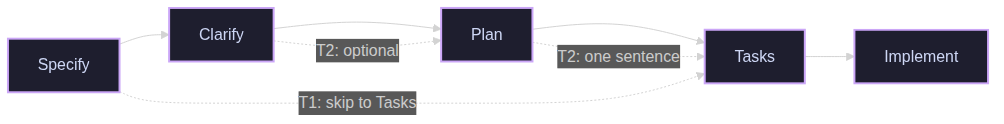
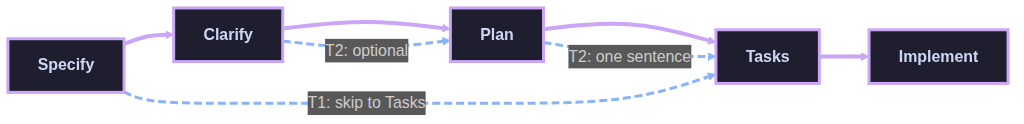
feat(minspec): 0.1.11 — README badges, thicker mermaid, fix ADR title bar flicker
Listing polish + one minor UX fix:

- README badges restructured: Tests/Coverage/AI-not-required/Internet-
  not-required stay at the top (high-signal). License, VS Code version,
  TypeScript version, and CI status move to the marketplace sidebar
  badges array. Same info, less visual noise above the fold.
- Badge renamed "Offline Core" → "Internet: not required" (plain English).
- First "specification-driven development" mention in README now links
  to spec-kit on GitHub (the upstream SDD methodology/format MinSpec
  stays compatible with).
- Phase Lifecycle PNG regenerated: 4px solid purple connectors for the
  full path, 3px dashed blue for the T1/T2 skip arrows, bold phase
  labels. Source .mmd updated alongside.
- Fix: "MinSpec: Decisions" explorer section no longer stretches its
  title to "MinSpec: Create Architecture D…" on hover. Added
  shortTitle "New ADR" + $(add) icon to minspec.createAdr so VS Code
  renders it as an icon-only action button in the view/title bar.

diff --git a/packages/minspec/CHANGELOG.md b/packages/minspec/CHANGELOG.md
@@ -5,6 +5,19 @@ All notable changes to the MinSpec extension will be documented in this file.
 The format is based on [Keep a Changelog](https://keepachangelog.com/en/1.1.0/),
 and this project adheres to [Semantic Versioning](https://semver.org/spec/v2.0.0.html).
 
+## [0.1.11] - 2026-05-28
+
+### Changed
+
+- **README badges restructured.** Tests, Coverage, "No AI Required", and "Internet not required" remain at the top (high-signal). License, VS Code version, TypeScript version, and CI status moved to the marketplace sidebar (`package.json` `badges` array) — same info, less visual noise above the fold.
+- Renamed badge "Offline Core" → "Internet: not required" for plain-English clarity.
+- First mention of "specification-driven development" in the README now links to [Spec Kit](https://github.com/spec-kit/spec-kit) — the upstream SDD methodology / file format MinSpec stays compatible with.
+- Phase Lifecycle diagram regenerated with thicker connectors (4px solid for the T3/T4 path, 3px dashed for T1/T2 skip arrows) and bold phase labels for readability at marketplace render scale.
+
+### Fixed
+
+- **"MinSpec: Decisions" section title flicker:** Hovering the explorer pane no longer expands the title bar to "MinSpec: Create Architecture D…". The `minspec.createAdr` command now declares `shortTitle: "New ADR"` plus a `$(add)` icon, so VS Code renders it as an icon-only action button instead of stretching the full title.
+
 ## [0.1.10] - 2026-05-28
 
 ### Changed

diff --git a/packages/minspec/README.md b/packages/minspec/README.md
@@ -2,18 +2,14 @@
 
 > Just enough spec. Never too much.
 
-[![CI](https://github.com/harvest316/minspec/actions/workflows/ci.yml/badge.svg)](https://github.com/harvest316/minspec/actions/workflows/ci.yml)
 [![Tests](https://img.shields.io/endpoint?url=https://raw.githubusercontent.com/harvest316/minspec/badges/tests.json)](https://github.com/harvest316/minspec/actions/workflows/ci.yml)
 [![Coverage](https://img.shields.io/endpoint?url=https://raw.githubusercontent.com/harvest316/minspec/badges/coverage.json)](https://github.com/harvest316/minspec/actions/workflows/ci.yml)
-[![License: MIT](https://img.shields.io/badge/License-MIT-yellow.svg)](https://opensource.org/licenses/MIT)
-[![VS Code](https://img.shields.io/badge/VS%20Code-1.90+-blue.svg)](https://code.visualstudio.com/)
-[![TypeScript](https://img.shields.io/badge/TypeScript-5.0+-3178C6.svg)](https://www.typescriptlang.org/)
 [![No AI Required](https://img.shields.io/badge/AI-not%20required-lightgrey.svg)](https://github.com/harvest316/minspec)
-[![Offline Core](https://img.shields.io/badge/core-offline%20by%20default-lightgrey.svg)](https://github.com/harvest316/minspec)
+[![Internet not required](https://img.shields.io/badge/Internet-not%20required-lightgrey.svg)](https://github.com/harvest316/minspec)
 
 ## Why This Exists
 
-Every specification-driven development tool applies the same ceremony to every change. A one-line bug fix gets the same multi-page spec treatment as a full architecture rewrite. Developers try SDD, hit the overhead on small changes, and abandon it.
+Every [specification-driven development](https://github.com/spec-kit/spec-kit) tool applies the same ceremony to every change. A one-line bug fix gets the same multi-page spec treatment as a full architecture rewrite. Developers try SDD, hit the overhead on small changes, and abandon it.
 
 MinSpec fixes this. It classifies each change by complexity and applies proportional ceremony -- a trivial fix needs one sentence of spec, while an architectural change gets a full design document. You get the discipline of specification-driven development without the bureaucracy.
 